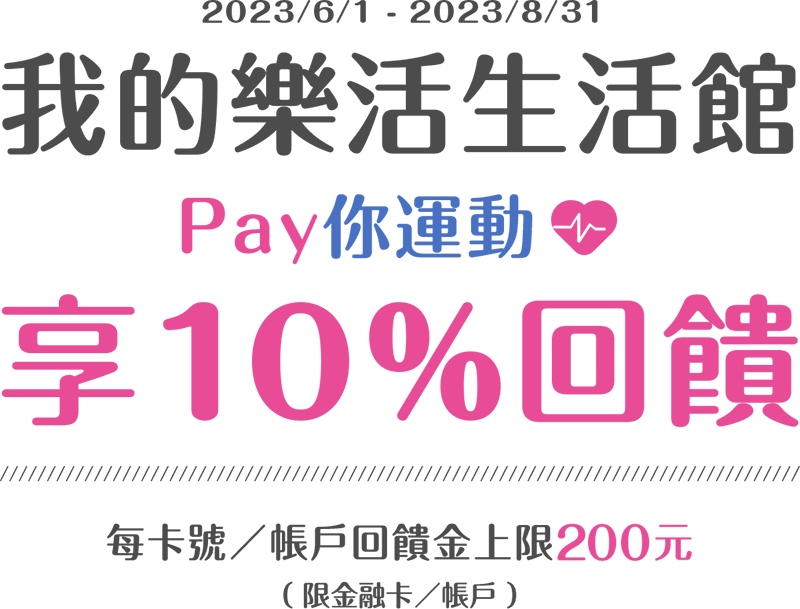
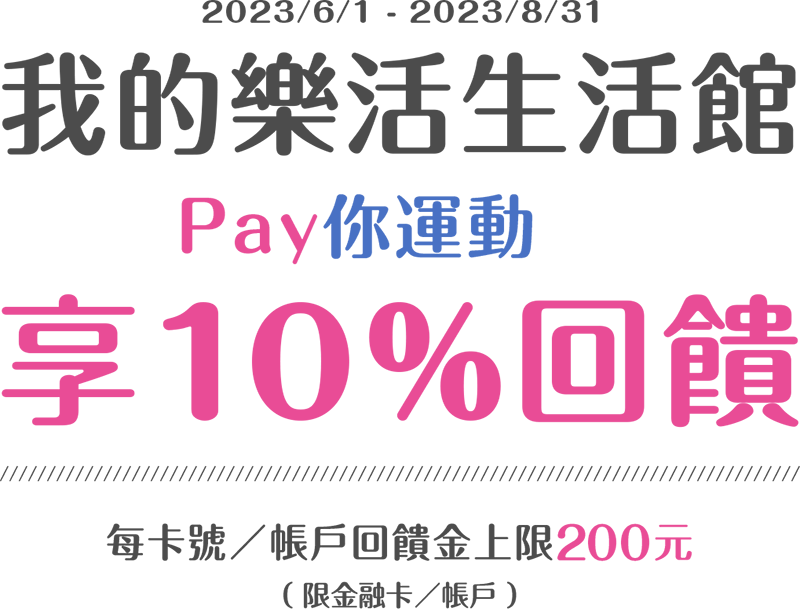
33

Changed region(s): [[0.6875, 0.312, 0.7812, 0.4368]]

diff --git a/mylohaslife/assets/css/main.css b/mylohaslife/assets/css/main.css
@@ -11,7 +11,9 @@ img{margin: 0; padding: 0; display: block;}
 /* kv */
 .kv_container{width: 100%; margin: 0 auto; background: url("../images/kv_bg.png") center top no-repeat; background-size: cover;}
 .kv{width: 100%; max-width: 1440px; height: 715px; margin: 0 auto; position: relative;}
-.kv .title{width: 35.416666666%; margin: 0 auto; padding-top: 4.7%; opacity: 0; -webkit-animation: opacity .6s .3s ease-in-out forwards; animation: opacity .6s .3s ease-in-out forwards;}
+.kv .title{width: 35.416666666%; margin: 0 auto; padding-top: 4.7%; position: relative;}
+.kv .title .kv_tit{}
+.kv .title .heart{width: 10%; position: absolute; left: 68%; top: 41%; animation: shout 3s infinite;}
 .kv .payji{width: 22%; position: absolute; left: 10%; top: 33%;}
 .kv .people{width: 52%; position: absolute; right: -10%; top: 6%;}
 .mobOnly{display: none;}
@@ -107,9 +109,10 @@ img{margin: 0; padding: 0; display: block;}
 .main{padding-top: 58px;}
 /* kv */
 .kv{width: 100%; height: 0; padding-bottom: 153.125%; margin: 0 auto; background: url("../images/kv_bg_m.png") center top no-repeat; background-size: 100% auto;}
-.kv .title{width: 72%; padding-top: 10%;}
-.kv .payji{width: 44%; left: -3%; top: 46%;}
-.kv .people{width: 100%; right: -16%; top: 45%;}
+.kv .title{width: 75%; padding-top: 9%;}
+.kv .title .heart{left: 68.5%; top: 40.5%;}
+.kv .payji{width: 44%; left: 2%; top: 48%;}
+.kv .people{width: 95%; right: -16%; top: 49%;}
 .webOnly{display: none;}
 .mobOnly{display: block;}
 /* content */
@@ -155,20 +158,7 @@ img{margin: 0; padding: 0; display: block;}
 }
 
 /* animation */
-@keyframes opacity{
-      0% {opacity: 0;}
-    100% {opacity: 1;}
+@keyframes shout{
+  0%,5%,15%,25%,100% {transform:scale(1);}
+             10%,20% {transform:scale(1.2);}
 }
-@keyframes payji{
-    0% {background: url("../images/payji1.png") left top no-repeat; background-size: 100% auto;}
-   50% {background: url("../images/payji1.png") left top no-repeat; background-size: 100% auto;}
- 50.1% {background: url("../images/payji2.png") left top no-repeat; background-size: 100% auto;}
-  100% {background: url("../images/payji2.png") left top no-repeat; background-size: 100% auto;}
-}
-@keyframes monkey{
-    0% {background: url("../images/monkey1.png") left top no-repeat; background-size: 100% auto;}
-   50% {background: url("../images/monkey1.png") left top no-repeat; background-size: 100% auto;}
- 50.1% {background: url("../images/monkey2.png") left top no-repeat; background-size: 100% auto;}
-  100% {background: url("../images/monkey2.png") left top no-repeat; background-size: 100% auto;}
-}
-

diff --git a/mylohaslife/index.html b/mylohaslife/index.html
@@ -67,10 +67,11 @@
             <section class="section kv_container">
                 <div class="kv" id="kv">
                     <div class="title">
-                        <div class="kv_tit animated bounce">
+                        <div class="kv_tit">
                             <img class="webOnly" src="assets/images/kv_tit.png" alt="元大銀行｜我的樂活生活館 Pay你一起運動享10%回饋">
                             <img class="mobOnly" src="assets/images/kv_tit_m.png" alt="元大銀行｜我的樂活生活館 Pay你一起運動享10%回饋">
                         </div>
+                        <div class="heart"><img src="assets/images/heart.svg" alt=""></div>
                     </div>
                     <div class="payji"><img src="assets/images/payji.png" alt=""></div>
                     <div class="people"><img src="assets/images/people.png" alt=""></div>
